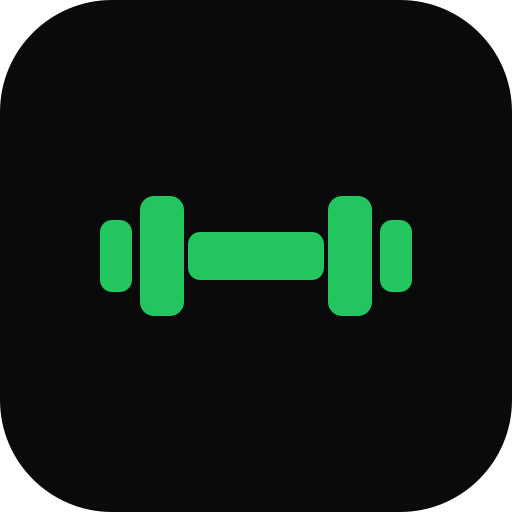
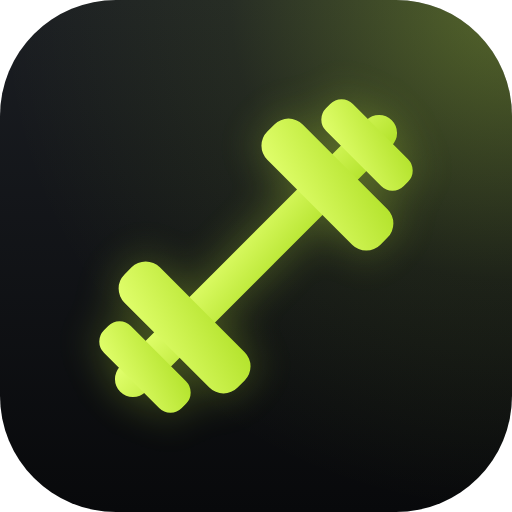
feat: novo ícone da app
- Haltere inclinado na cor lima da app sobre fundo escuro, com a luz no
  canto superior direito como os cartões de destaque.
- Ícone do iOS e "maskable" quadrados e sem transparência (o sistema
  arredonda os cantos); ícone "maskable" próprio no manifesto.
- scripts/gen-icons.mjs gera todos os tamanhos a partir de um só desenho,
  com o Edge/Chrome instalado, sem dependências.
- Os ícones do launcher deixam de ir para a cache offline.

diff --git a/vite.config.ts b/vite.config.ts
@@ -15,8 +15,12 @@ export default defineConfig({
       registerType: 'autoUpdate',
       injectManifest: {
         globPatterns: ['**/*.{js,css,html,svg,png,woff2}'],
+        // Launcher icons are fetched by the system when the app is installed;
+        // the app itself never shows them, so they need not be kept offline.
+        globIgnores: ['**/pwa-*.png'],
       },
       includeAssets: ['favicon.svg', 'apple-touch-icon.png'],
+      includeManifestIcons: false,
       manifest: {
         name: 'Gym Coach',
         short_name: 'GymCoach',
@@ -30,7 +34,7 @@ export default defineConfig({
         icons: [
           { src: 'pwa-192.png', sizes: '192x192', type: 'image/png' },
           { src: 'pwa-512.png', sizes: '512x512', type: 'image/png' },
-          { src: 'pwa-512.png', sizes: '512x512', type: 'image/png', purpose: 'maskable' },
+          { src: 'pwa-maskable-512.png', sizes: '512x512', type: 'image/png', purpose: 'maskable' },
         ],
       },
       devOptions: { enabled: true, type: 'module' },
